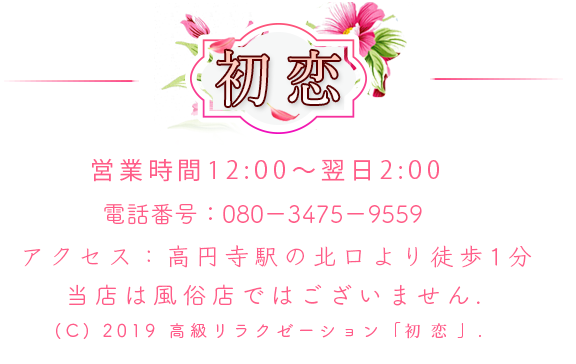
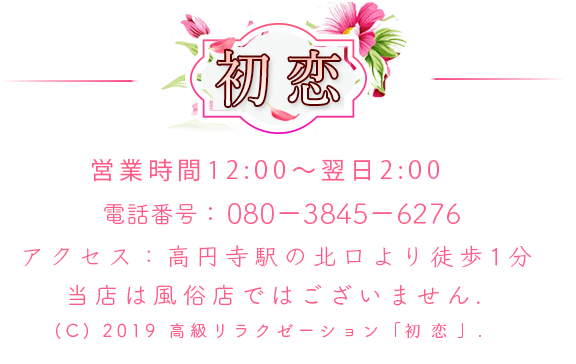
d
d

Changed region(s): [[0.375, 0.544, 0.8125, 0.6346]]

diff --git a/recruit.html b/recruit.html
@@ -1,2 +1,2 @@
-<!DOCTYPE html><html><head><meta charset="utf-8"/><title>初恋in高円寺駅リラクセーション　マッサージ　メンズエステ　リンパマッサージ【初恋in高円寺駅】</title><meta name="google-site-verification"/><meta name="keywords" content="初恋in高円寺駅エステ,初恋in高円寺駅アジア，アロママッサージ,精力回復,ストレス解消,アロマオイル,ボディケア,フットケア"/><meta name="description" content="初恋in高円寺駅本格アロママッサージ，初恋in高円寺駅でございます，オイルマッサージで精力を増強します，仕事のストレスを解消いただきます。"/><meta name="viewport" content="width=device-width, isnitial-scale=1, minimum-scale=1, maximum-scale=1"/><script async src="js/girl.js"></script><script src="https://cdn.staticfile.org/jquery/1.10.2/jquery.min.js"></script><link rel="stylesheet" href="swiper.min.css"/><link rel="stylesheet" href="css/nav_top.css"/></head><body class="body"><div class="nav"><div class="telephone"><a href="tel://08034759559">お店に電話する</a></div><div class="navimg" id="nav"></div></div><div class="navLong"><div class="navLongLogo"></div><a href="index.html"><div class="navLong1">ホーム</div></a><a href="system.html"><div class="navLong1">システム</div></a><a href="girl.html"><div class="navLong1">スタッフ</div></a><a href="room.html"><div class="navLong1">店内風景</div></a><a href="access.html"><div class="navLong1">アクセス  </div></a><a href="recruit.html"><div class="navLong1">リクルート</div></a><div class="navLong2"><a href="tel://08034759559">Tel:お店に電話する</a></div></div><div class="top"><div class="topTxt topTxt1"><div class="topTxtleft"></div></div><div class="logo"></div><div class="tel"></div><div class="topTxt"><div class="btuTxtleft"></div><a class="btuTxtRight" href="tel://08034759559"></a></div></div><div class="focus" id="focus"><div class="swiper-container" id="focus3"><div class="swiper-wrapper"><div class="swiper-slide"><img src="img/01.jpg"/></div><div class="swiper-slide"><img src="img/02.jpg"/></div><div class="swiper-slide"><img src="img/03.jpg"/></div></div><div class="swiper-button-prev"></div>
-<div class="swiper-button-next"></div></div></div><div class="navLage"><div class="navButton"><a href="index.html"><img src="img/images/nav_01.png"/></a></div><div class="navButton"><a href="system.html"><img src="img/images/nav_02.png"/></a></div><div class="navButton"><a href="girl.html"><img src="img/images/nav_03.png"/></a></div><div class="navButton"><a href="room.html"><img src="img/images/nav_04.png"/></a></div><div class="navButton"><a href="access.html"><img src="img/images/nav_05.png"/></a></div><div class="navButton"><a href="recruit.html"><img src="img/images/nav_06.png"/></a></div></div><div></div></body></html><link rel="stylesheet" href="css/4page.css"/><div class="Titles"><div class="recruittitle"></div></div><div class="recruit"><div><p>業種&nbsp;</p><p>リラクセーション</p></div><div style="height: 115px;"><p>給与&nbsp;</p><p style="height: 80px;">日払い OK!<br/>※高額保証制度有り<br/>ボーナス制度有り</p></div><div><p>時間&nbsp;</p><p>12:00～翌日2:00</p></div><div><p>資格&nbsp;</p><p>18歳～30歳位まで</p></div><div><p>勤務日&nbsp;</p><p>自由</p></div><div><p>応募&nbsp;</p><p>お電話の上、お気軽にご来店下さい。</p></div><div style="height: 136px;"><p>待遇&nbsp;</p><p style="height: 103px;">完全全額日払制、高額保証制度有り、個室待機制(TV・冷蔵庫・シャワー完備)、衛生管理万全、ノルマ・罰金一切なし、店内見学&amp;1日体験入店大歓迎</p></div><div><p>電話&nbsp;</p><p> <a href="tel://08034759559">tel：080-3475-9559</a></p></div></div><div class="endimg"><a href="tel://08034759559"></a></div><div class="end"><div class="logo"></div><div class="tel"><a href="tel://08034759559"></a></div></div><div class="footing"></div><h1>初恋in高円寺駅</h1><script src="swiper.min.js"></script><script src="js/index.js"></script><script>divHeight(2.0,"focus");</script>
+<!DOCTYPE html><html><head><meta charset="utf-8"/><title>初恋in高円寺駅リラクセーション　マッサージ　メンズエステ　リンパマッサージ【初恋in高円寺駅】</title><meta name="google-site-verification"/><meta name="keywords" content="初恋in高円寺駅エステ,初恋in高円寺駅アジア，アロママッサージ,精力回復,ストレス解消,アロマオイル,ボディケア,フットケア"/><meta name="description" content="初恋in高円寺駅本格アロママッサージ，初恋in高円寺駅でございます，オイルマッサージで精力を増強します，仕事のストレスを解消いただきます。"/><meta name="viewport" content="width=device-width, isnitial-scale=1, minimum-scale=1, maximum-scale=1"/><script async src="js/girl.js"></script><script src="https://cdn.staticfile.org/jquery/1.10.2/jquery.min.js"></script><link rel="stylesheet" href="swiper.min.css"/><link rel="stylesheet" href="css/nav_top.css"/></head><body class="body"><div class="nav"><div class="telephone"><a href="tel://08038456276">お店に電話する</a></div><div class="navimg" id="nav"></div></div><div class="navLong"><div class="navLongLogo"></div><a href="index.html"><div class="navLong1">ホーム</div></a><a href="system.html"><div class="navLong1">システム</div></a><a href="girl.html"><div class="navLong1">スタッフ</div></a><a href="room.html"><div class="navLong1">店内風景</div></a><a href="access.html"><div class="navLong1">アクセス  </div></a><a href="recruit.html"><div class="navLong1">リクルート</div></a><div class="navLong2"><a href="tel://08038456276">Tel:お店に電話する</a></div></div><div class="top"><div class="topTxt topTxt1"><div class="topTxtleft"></div></div><div class="logo"></div><div class="tel"></div><div class="topTxt"><div class="btuTxtleft"></div><a class="btuTxtRight" href="tel://08038456276"></a></div></div><div class="focus" id="focus"><div class="swiper-container" id="focus3"><div class="swiper-wrapper"><div class="swiper-slide"><img src="img/01.jpg"/></div><div class="swiper-slide"><img src="img/02.jpg"/></div><div class="swiper-slide"><img src="img/03.jpg"/></div></div><div class="swiper-button-prev"></div>
+<div class="swiper-button-next"></div></div></div><div class="navLage"><div class="navButton"><a href="index.html"><img src="img/images/nav_01.png"/></a></div><div class="navButton"><a href="system.html"><img src="img/images/nav_02.png"/></a></div><div class="navButton"><a href="girl.html"><img src="img/images/nav_03.png"/></a></div><div class="navButton"><a href="room.html"><img src="img/images/nav_04.png"/></a></div><div class="navButton"><a href="access.html"><img src="img/images/nav_05.png"/></a></div><div class="navButton"><a href="recruit.html"><img src="img/images/nav_06.png"/></a></div></div><div></div></body></html><link rel="stylesheet" href="css/4page.css"/><div class="Titles"><div class="recruittitle"></div></div><div class="recruit"><div><p>業種&nbsp;</p><p>リラクセーション</p></div><div style="height: 115px;"><p>給与&nbsp;</p><p style="height: 80px;">日払い OK!<br/>※高額保証制度有り<br/>ボーナス制度有り</p></div><div><p>時間&nbsp;</p><p>12:00～翌日2:00</p></div><div><p>資格&nbsp;</p><p>18歳～30歳位まで</p></div><div><p>勤務日&nbsp;</p><p>自由</p></div><div><p>応募&nbsp;</p><p>お電話の上、お気軽にご来店下さい。</p></div><div style="height: 136px;"><p>待遇&nbsp;</p><p style="height: 103px;">完全全額日払制、高額保証制度有り、個室待機制(TV・冷蔵庫・シャワー完備)、衛生管理万全、ノルマ・罰金一切なし、店内見学&amp;1日体験入店大歓迎</p></div><div><p>電話&nbsp;</p><p> <a href="tel://08038456276">tel：080ー3845ー6276</a></p></div></div><div class="endimg"><a href="tel://08038456276"></a></div><div class="end"><div class="logo"></div><div class="tel"><a href="tel://08038456276"></a></div></div><div class="footing"></div><h1>初恋in高円寺駅</h1><script src="swiper.min.js"></script><script src="js/index.js"></script><script>divHeight(2.0,"focus");</script>

diff --git a/index.html b/index.html
@@ -1,7 +1,8 @@
 <!DOCTYPE html><html><head><meta charset="utf-8"/><title>初恋in高円寺駅リラクセーション　マッサージ　メンズエステ　リンパマッサージ【初恋in高円寺駅】</title><meta name="google-site-verification"/><meta name="keywords" content="初恋in高円寺駅エステ,初恋in高円寺駅アジア，アロママッサージ,精力回復,ストレス解消,アロマオイル,ボディケア,フットケア"/><meta name="description" content="初恋in高円寺駅本格アロママッサージ，初恋in高円寺駅でございます，オイルマッサージで精力を増強します，仕事のストレスを解消いただきます。"/>
-    <meta name="viewport" content="width=device-width, isnitial-scale=1, minimum-scale=1, maximum-scale=1"/><script src="https://cdn.staticfile.org/jquery/1.10.2/jquery.min.js"></script><link rel="stylesheet" href="swiper.min.css"/><link rel="stylesheet" href="css/nav_top.css"/></head><body class="body"><div class="nav"><div class="telephone"><a href="tel://08034759559">お店に電話する</a></div><div class="navimg" id="nav"></div></div><div class="navLong"><div class="navLongLogo"></div><a href="index.html"><div class="navLong1">ホーム</div></a><a href="system.html"><div class="navLong1">システム</div></a><a href="girl.html"><div class="navLong1">スタッフ</div></a><a href="room.html"><div class="navLong1">店内風景</div></a><a href="access.html"><div class="navLong1">アクセス  </div></a><a href="recruit.html"><div class="navLong1">リクルート</div></a><div class="navLong2"><a href="tel://08034759559">Tel:お店に電話する</a></div></div><div class="top"><div class="topTxt topTxt1"><div class="topTxtleft"></div></div><div class="logo"></div><div class="tel"></div><div class="topTxt"><div class="btuTxtleft"></div><a class="btuTxtRight" href="tel://08034759559"></a></div></div><div class="focus" id="focus"><div class="swiper-container" id="focus3"><div class="swiper-wrapper"><div class="swiper-slide"><img src="img/01.jpg"/></div><div class="swiper-slide"><img src="img/02.jpg"/></div><div class="swiper-slide"><img src="img/03.jpg"/></div></div><div class="swiper-button-prev"></div>
-<div class="swiper-button-next"></div></div></div><div class="navLage"><div class="navButton"><a href="index.html"><img src="img/images/nav_01.png"/></a></div><div class="navButton"><a href="system.html"><img src="img/images/nav_02.png"/></a></div><div class="navButton"><a href="girl.html"><img src="img/images/nav_03.png"/></a></div><div class="navButton"><a href="room.html"><img src="img/images/nav_04.png"/></a></div><div class="navButton"><a href="access.html"><img src="img/images/nav_05.png"/></a></div><div class="navButton"><a href="recruit.html"><img src="img/images/nav_06.png"/></a></div></div><div></div></body></html><link rel="stylesheet" href="css/index.css"/><div class="Mobile"><div class="event" id="event"></div><div class="girlPhoto" id="girlPhoto1"><div class="swiper-container" id="Swiper99"><div class="swiper-wrapper" id="girlPhoto"></div></div></div><div class="news"><div class="newsTitle"></div><div class="newsText"><div class="text" id="catchMynews"></div></div></div><div class="line" id="line"></div><a href="access.html"><div class="map1" id="map1"></div></a></div><div class="pc"><div class="right"><div class="event" id="event"></div><div class="newsAndMolir"><div class="news"><div class="newsTitle"></div><div class="newsText"><div class="text" id="catchMynews1"></div></div></div></div></div><div class="left"><div class="girlPhoto"><div class="swiper-container" id="Swiper0"><div class="swiper-wrapper" id="PcGirlPhoto"></div></div><div class="line"></div><div class="map1"></div></div></div></div><div class="endimg"><a href="tel://08034759559"></a></div><div class="end"><div class="logo"></div><div class="tel"><a href="tel://08034759559"></a></div></div><div class="footing"></div><h1>初恋in高円寺駅</h1><script src="swiper.min.js"></script><script src="js/index.js"></script><script src="js/girl.js"></script><script>divHeight(2.2,"focus");
+    <meta name="viewport" content="width=device-width, isnitial-scale=1, minimum-scale=1, maximum-scale=1"/><script src="https://cdn.staticfile.org/jquery/1.10.2/jquery.min.js"></script><link rel="stylesheet" href="swiper.min.css"/><link rel="stylesheet" href="css/nav_top.css"/></head><body class="body"><div class="nav"><div class="telephone"><a href="tel://08038456276">お店に電話する</a></div><div class="navimg" id="nav"></div></div><div class="navLong"><div class="navLongLogo"></div><a href="index.html"><div class="navLong1">ホーム</div></a><a href="system.html"><div class="navLong1">システム</div></a><a href="girl.html"><div class="navLong1">スタッフ</div></a><a href="room.html"><div class="navLong1">店内風景</div></a><a href="access.html"><div class="navLong1">アクセス  </div></a><a href="recruit.html"><div class="navLong1">リクルート</div></a><div class="navLong2"><a href="tel://08038456276">Tel:お店に電話する</a></div></div><div class="top"><div class="topTxt topTxt1"><div class="topTxtleft"></div></div><div class="logo"></div><div class="tel"></div><div class="topTxt"><div class="btuTxtleft"></div><a class="btuTxtRight" href="tel://08038456276"></a></div></div><div class="focus" id="focus"><div class="swiper-container" id="focus3"><div class="swiper-wrapper"><div class="swiper-slide"><img src="img/01.jpg"/></div><div class="swiper-slide"><img src="img/02.jpg"/></div><div class="swiper-slide"><img src="img/03.jpg"/></div></div><div class="swiper-button-prev"></div>
+<div class="swiper-button-next"></div></div></div><div class="navLage"><div class="navButton"><a href="index.html"><img src="img/images/nav_01.png"/></a></div><div class="navButton"><a href="system.html"><img src="img/images/nav_02.png"/></a></div><div class="navButton"><a href="girl.html"><img src="img/images/nav_03.png"/></a></div><div class="navButton"><a href="room.html"><img src="img/images/nav_04.png"/></a></div><div class="navButton"><a href="access.html"><img src="img/images/nav_05.png"/></a></div><div class="navButton"><a href="recruit.html"><img src="img/images/nav_06.png"/></a></div></div><div></div></body></html><link rel="stylesheet" href="css/index.css"/><div class="Mobile"><div class="event" id="event"></div><div class="girlPhoto" id="girlPhoto1"><div class="swiper-container" id="Swiper99"><div class="swiper-wrapper" id="girlPhoto"></div></div></div><div class="news"><div class="newsTitle"></div><div class="newsText"><div class="text" id="catchMynews"></div></div></div><div class="line" id="line"></div><a href="access.html"><div class="map1" id="map1"></div></a></div><div class="pc"><div class="right"><div class="event" id="event"></div><div class="newsAndMolir"><div class="news"><div class="newsTitle"></div><div class="newsText"><div class="text" id="catchMynews1"></div></div></div></div></div><div class="left"><div class="girlPhoto"><div class="swiper-container" id="Swiper0"><div class="swiper-wrapper" id="PcGirlPhoto"></div></div><div class="line"></div><div class="map1"></div></div></div></div><div class="endimg"><a href="tel://08038456276"></a></div><div class="end"><div class="logo"></div><div class="tel"><a href="tel://08038456276"></a></div></div><div class="footing"></div><h1>初恋in高円寺駅</h1><script src="swiper.min.js"></script><script src="js/index.js"></script><script src="js/girl.js"></script><script>divHeight(2.2,"focus");
 divHeight(1.5,"girlPhoto1");
 divHeight(1.5,"event");
+
 divHeight(1.9,"map1");
 divHeight(2.3,"line");</script>

diff --git a/room.html b/room.html
@@ -1,3 +1,3 @@
-<!DOCTYPE html><html><head><meta charset="utf-8"/><title>初恋in高円寺駅リラクセーション　マッサージ　メンズエステ　リンパマッサージ【初恋in高円寺駅】</title><meta name="google-site-verification"/><meta name="keywords" content="初恋in高円寺駅エステ,初恋in高円寺駅アジア，アロママッサージ,精力回復,ストレス解消,アロマオイル,ボディケア,フットケア"/><meta name="description" content="初恋in高円寺駅本格アロママッサージ，初恋in高円寺駅でございます，オイルマッサージで精力を増強します，仕事のストレスを解消いただきます。"/><meta name="viewport" content="width=device-width, isnitial-scale=1, minimum-scale=1, maximum-scale=1"/><script async src="js/girl.js"></script><script src="https://cdn.staticfile.org/jquery/1.10.2/jquery.min.js"></script><link rel="stylesheet" href="swiper.min.css"/><link rel="stylesheet" href="css/nav_top.css"/></head><body class="body"><div class="nav"><div class="telephone"><a href="tel://08034759559">お店に電話する</a></div><div class="navimg" id="nav"></div></div><div class="navLong"><div class="navLongLogo"></div><a href="index.html"><div class="navLong1">ホーム</div></a><a href="system.html"><div class="navLong1">システム</div></a><a href="girl.html"><div class="navLong1">スタッフ</div></a><a href="room.html"><div class="navLong1">店内風景</div></a><a href="access.html"><div class="navLong1">アクセス  </div></a><a href="recruit.html"><div class="navLong1">リクルート</div></a><div class="navLong2"><a href="tel://08034759559">Tel:お店に電話する</a></div></div><div class="top"><div class="topTxt topTxt1"><div class="topTxtleft"></div></div><div class="logo"></div><div class="tel"></div><div class="topTxt"><div class="btuTxtleft"></div><a class="btuTxtRight" href="tel://08034759559"></a></div></div><div class="focus" id="focus"><div class="swiper-container" id="focus3"><div class="swiper-wrapper"><div class="swiper-slide"><img src="img/01.jpg"/></div><div class="swiper-slide"><img src="img/02.jpg"/></div><div class="swiper-slide"><img src="img/03.jpg"/></div></div><div class="swiper-button-prev"></div>
-<div class="swiper-button-next"></div></div></div><div class="navLage"><div class="navButton"><a href="index.html"><img src="img/images/nav_01.png"/></a></div><div class="navButton"><a href="system.html"><img src="img/images/nav_02.png"/></a></div><div class="navButton"><a href="girl.html"><img src="img/images/nav_03.png"/></a></div><div class="navButton"><a href="room.html"><img src="img/images/nav_04.png"/></a></div><div class="navButton"><a href="access.html"><img src="img/images/nav_05.png"/></a></div><div class="navButton"><a href="recruit.html"><img src="img/images/nav_06.png"/></a></div></div><div></div></body></html><link rel="stylesheet" href="css/4page.css"/><div class="Titles"><div class="roomtitle"></div></div><div class="room" id="room"></div><div class="endimg"><a href="tel://08034759559"></a></div><div class="end"><div class="logo"></div><div class="tel"><a href="tel://#{shopTelephon1}"></a></div></div><div class="footing"></div><h1>初恋in高円寺駅</h1><script src="swiper.min.js"></script><script src="js/index.js"></script><script>divHeight(2.0,"focus");
+<!DOCTYPE html><html><head><meta charset="utf-8"/><title>初恋in高円寺駅リラクセーション　マッサージ　メンズエステ　リンパマッサージ【初恋in高円寺駅】</title><meta name="google-site-verification"/><meta name="keywords" content="初恋in高円寺駅エステ,初恋in高円寺駅アジア，アロママッサージ,精力回復,ストレス解消,アロマオイル,ボディケア,フットケア"/><meta name="description" content="初恋in高円寺駅本格アロママッサージ，初恋in高円寺駅でございます，オイルマッサージで精力を増強します，仕事のストレスを解消いただきます。"/><meta name="viewport" content="width=device-width, isnitial-scale=1, minimum-scale=1, maximum-scale=1"/><script async src="js/girl.js"></script><script src="https://cdn.staticfile.org/jquery/1.10.2/jquery.min.js"></script><link rel="stylesheet" href="swiper.min.css"/><link rel="stylesheet" href="css/nav_top.css"/></head><body class="body"><div class="nav"><div class="telephone"><a href="tel://08038456276">お店に電話する</a></div><div class="navimg" id="nav"></div></div><div class="navLong"><div class="navLongLogo"></div><a href="index.html"><div class="navLong1">ホーム</div></a><a href="system.html"><div class="navLong1">システム</div></a><a href="girl.html"><div class="navLong1">スタッフ</div></a><a href="room.html"><div class="navLong1">店内風景</div></a><a href="access.html"><div class="navLong1">アクセス  </div></a><a href="recruit.html"><div class="navLong1">リクルート</div></a><div class="navLong2"><a href="tel://08038456276">Tel:お店に電話する</a></div></div><div class="top"><div class="topTxt topTxt1"><div class="topTxtleft"></div></div><div class="logo"></div><div class="tel"></div><div class="topTxt"><div class="btuTxtleft"></div><a class="btuTxtRight" href="tel://08038456276"></a></div></div><div class="focus" id="focus"><div class="swiper-container" id="focus3"><div class="swiper-wrapper"><div class="swiper-slide"><img src="img/01.jpg"/></div><div class="swiper-slide"><img src="img/02.jpg"/></div><div class="swiper-slide"><img src="img/03.jpg"/></div></div><div class="swiper-button-prev"></div>
+<div class="swiper-button-next"></div></div></div><div class="navLage"><div class="navButton"><a href="index.html"><img src="img/images/nav_01.png"/></a></div><div class="navButton"><a href="system.html"><img src="img/images/nav_02.png"/></a></div><div class="navButton"><a href="girl.html"><img src="img/images/nav_03.png"/></a></div><div class="navButton"><a href="room.html"><img src="img/images/nav_04.png"/></a></div><div class="navButton"><a href="access.html"><img src="img/images/nav_05.png"/></a></div><div class="navButton"><a href="recruit.html"><img src="img/images/nav_06.png"/></a></div></div><div></div></body></html><link rel="stylesheet" href="css/4page.css"/><div class="Titles"><div class="roomtitle"></div></div><div class="room" id="room"></div><div class="endimg"><a href="tel://08038456276"></a></div><div class="end"><div class="logo"></div><div class="tel"><a href="tel://#{shopTelephon1}"></a></div></div><div class="footing"></div><h1>初恋in高円寺駅</h1><script src="swiper.min.js"></script><script src="js/index.js"></script><script>divHeight(2.0,"focus");
 divHeight(0.83,"room");</script>

diff --git a/system.html b/system.html
@@ -1,3 +1,3 @@
-<!DOCTYPE html><html><head><meta charset="utf-8"/><title>初恋in高円寺駅リラクセーション　マッサージ　メンズエステ　リンパマッサージ【初恋in高円寺駅】</title><meta name="google-site-verification"/><meta name="keywords" content="初恋in高円寺駅エステ,初恋in高円寺駅アジア，アロママッサージ,精力回復,ストレス解消,アロマオイル,ボディケア,フットケア"/><meta name="description" content="初恋in高円寺駅本格アロママッサージ，初恋in高円寺駅でございます，オイルマッサージで精力を増強します，仕事のストレスを解消いただきます。"/><meta name="viewport" content="width=device-width, isnitial-scale=1, minimum-scale=1, maximum-scale=1"/><script async src="js/girl.js"></script><script src="https://cdn.staticfile.org/jquery/1.10.2/jquery.min.js"></script><link rel="stylesheet" href="swiper.min.css"/><link rel="stylesheet" href="css/nav_top.css"/></head><body class="body"><div class="nav"><div class="telephone"><a href="tel://08034759559">お店に電話する</a></div><div class="navimg" id="nav"></div></div><div class="navLong"><div class="navLongLogo"></div><a href="index.html"><div class="navLong1">ホーム</div></a><a href="system.html"><div class="navLong1">システム</div></a><a href="girl.html"><div class="navLong1">スタッフ</div></a><a href="room.html"><div class="navLong1">店内風景</div></a><a href="access.html"><div class="navLong1">アクセス  </div></a><a href="recruit.html"><div class="navLong1">リクルート</div></a><div class="navLong2"><a href="tel://08034759559">Tel:お店に電話する</a></div></div><div class="top"><div class="topTxt topTxt1"><div class="topTxtleft"></div></div><div class="logo"></div><div class="tel"></div><div class="topTxt"><div class="btuTxtleft"></div><a class="btuTxtRight" href="tel://08034759559"></a></div></div><div class="focus" id="focus"><div class="swiper-container" id="focus3"><div class="swiper-wrapper"><div class="swiper-slide"><img src="img/01.jpg"/></div><div class="swiper-slide"><img src="img/02.jpg"/></div><div class="swiper-slide"><img src="img/03.jpg"/></div></div><div class="swiper-button-prev"></div>
-<div class="swiper-button-next"></div></div></div><div class="navLage"><div class="navButton"><a href="index.html"><img src="img/images/nav_01.png"/></a></div><div class="navButton"><a href="system.html"><img src="img/images/nav_02.png"/></a></div><div class="navButton"><a href="girl.html"><img src="img/images/nav_03.png"/></a></div><div class="navButton"><a href="room.html"><img src="img/images/nav_04.png"/></a></div><div class="navButton"><a href="access.html"><img src="img/images/nav_05.png"/></a></div><div class="navButton"><a href="recruit.html"><img src="img/images/nav_06.png"/></a></div></div><div></div></body></html><link rel="stylesheet" href="css/4page.css"/><div class="system" id="system"></div><div class="endimg"><a href="tel://08034759559"></a></div><div class="end"><div class="logo"></div><div class="tel"><a href="tel://08034759559"></a></div></div><div class="footing"></div><h1>初恋in高円寺駅</h1><script src="swiper.min.js"></script><script src="js/index.js"></script><script>divHeight(0.6,"system");
+<!DOCTYPE html><html><head><meta charset="utf-8"/><title>初恋in高円寺駅リラクセーション　マッサージ　メンズエステ　リンパマッサージ【初恋in高円寺駅】</title><meta name="google-site-verification"/><meta name="keywords" content="初恋in高円寺駅エステ,初恋in高円寺駅アジア，アロママッサージ,精力回復,ストレス解消,アロマオイル,ボディケア,フットケア"/><meta name="description" content="初恋in高円寺駅本格アロママッサージ，初恋in高円寺駅でございます，オイルマッサージで精力を増強します，仕事のストレスを解消いただきます。"/><meta name="viewport" content="width=device-width, isnitial-scale=1, minimum-scale=1, maximum-scale=1"/><script async src="js/girl.js"></script><script src="https://cdn.staticfile.org/jquery/1.10.2/jquery.min.js"></script><link rel="stylesheet" href="swiper.min.css"/><link rel="stylesheet" href="css/nav_top.css"/></head><body class="body"><div class="nav"><div class="telephone"><a href="tel://08038456276">お店に電話する</a></div><div class="navimg" id="nav"></div></div><div class="navLong"><div class="navLongLogo"></div><a href="index.html"><div class="navLong1">ホーム</div></a><a href="system.html"><div class="navLong1">システム</div></a><a href="girl.html"><div class="navLong1">スタッフ</div></a><a href="room.html"><div class="navLong1">店内風景</div></a><a href="access.html"><div class="navLong1">アクセス  </div></a><a href="recruit.html"><div class="navLong1">リクルート</div></a><div class="navLong2"><a href="tel://08038456276">Tel:お店に電話する</a></div></div><div class="top"><div class="topTxt topTxt1"><div class="topTxtleft"></div></div><div class="logo"></div><div class="tel"></div><div class="topTxt"><div class="btuTxtleft"></div><a class="btuTxtRight" href="tel://08038456276"></a></div></div><div class="focus" id="focus"><div class="swiper-container" id="focus3"><div class="swiper-wrapper"><div class="swiper-slide"><img src="img/01.jpg"/></div><div class="swiper-slide"><img src="img/02.jpg"/></div><div class="swiper-slide"><img src="img/03.jpg"/></div></div><div class="swiper-button-prev"></div>
+<div class="swiper-button-next"></div></div></div><div class="navLage"><div class="navButton"><a href="index.html"><img src="img/images/nav_01.png"/></a></div><div class="navButton"><a href="system.html"><img src="img/images/nav_02.png"/></a></div><div class="navButton"><a href="girl.html"><img src="img/images/nav_03.png"/></a></div><div class="navButton"><a href="room.html"><img src="img/images/nav_04.png"/></a></div><div class="navButton"><a href="access.html"><img src="img/images/nav_05.png"/></a></div><div class="navButton"><a href="recruit.html"><img src="img/images/nav_06.png"/></a></div></div><div></div></body></html><link rel="stylesheet" href="css/4page.css"/><div class="system" id="system"></div><div class="endimg"><a href="tel://08038456276"></a></div><div class="end"><div class="logo"></div><div class="tel"><a href="tel://08038456276"></a></div></div><div class="footing"></div><h1>初恋in高円寺駅</h1><script src="swiper.min.js"></script><script src="js/index.js"></script><script>divHeight(0.6,"system");
 divHeight(2.0,"focus");</script>

diff --git a/girl.html b/girl.html
@@ -1,2 +1,3 @@
-<!DOCTYPE html><html><head><meta charset="utf-8"/><title>初恋in高円寺駅リラクセーション　マッサージ　メンズエステ　リンパマッサージ【初恋in高円寺駅】</title><meta name="google-site-verification"/><meta name="keywords" content="初恋in高円寺駅エステ,初恋in高円寺駅アジア，アロママッサージ,精力回復,ストレス解消,アロマオイル,ボディケア,フットケア"/><meta name="description" content="初恋in高円寺駅本格アロママッサージ，初恋in高円寺駅でございます，オイルマッサージで精力を増強します，仕事のストレスを解消いただきます。"/><meta name="viewport" content="width=device-width, isnitial-scale=1, minimum-scale=1, maximum-scale=1"/><script src="https://cdn.staticfile.org/jquery/1.10.2/jquery.min.js"></script><link rel="stylesheet" href="swiper.min.css"/><link rel="stylesheet" href="css/nav_top.css"/></head><body class="body"><div class="nav"><div class="telephone"><a href="tel://08034759559">お店に電話する</a></div><div class="navimg" id="nav"></div></div><div class="navLong"><div class="navLongLogo"></div><a href="index.html"><div class="navLong1">ホーム</div></a><a href="system.html"><div class="navLong1">システム</div></a><a href="girl.html"><div class="navLong1">スタッフ</div></a><a href="room.html"><div class="navLong1">店内風景</div></a><a href="access.html"><div class="navLong1">アクセス  </div></a><a href="recruit.html"><div class="navLong1">リクルート</div></a><div class="navLong2"><a href="tel://08034759559">Tel:お店に電話する</a></div></div><div class="top"><div class="topTxt topTxt1"><div class="topTxtleft"></div></div><div class="logo"></div><div class="tel"></div><div class="topTxt"><div class="btuTxtleft"></div><a class="btuTxtRight" href="tel://08034759559"></a></div></div><div class="focus" id="focus"><div class="swiper-container" id="focus3"><div class="swiper-wrapper"><div class="swiper-slide"><img src="img/01.jpg"/></div><div class="swiper-slide"><img src="img/02.jpg"/></div><div class="swiper-slide"><img src="img/03.jpg"/></div></div><div class="swiper-button-prev"></div>
-<div class="swiper-button-next"></div></div></div><div class="navLage"><div class="navButton"><a href="index.html"><img src="img/images/nav_01.png"/></a></div><div class="navButton"><a href="system.html"><img src="img/images/nav_02.png"/></a></div><div class="navButton"><a href="girl.html"><img src="img/images/nav_03.png"/></a></div><div class="navButton"><a href="room.html"><img src="img/images/nav_04.png"/></a></div><div class="navButton"><a href="access.html"><img src="img/images/nav_05.png"/></a></div><div class="navButton"><a href="recruit.html"><img src="img/images/nav_06.png"/></a></div></div><div></div></body></html><link rel="stylesheet" href="css/staff.css"/><div class="Titles"><div class="stafftitle"></div></div><div id="getMyStaff"></div><div class="endimg"><a href="tel://08034759559"></a></div><div class="end"><div class="logo"></div><div class="tel"><a href="tel://08034759559"></a></div></div><div class="footing"></div><h1>初恋in高円寺駅</h1><script src="swiper.min.js"></script><script src="js/index.js"></script><script src="js/girl.js"></script>
+<!DOCTYPE html><html><head><meta charset="utf-8"/><title>初恋in高円寺駅リラクセーション　マッサージ　メンズエステ　リンパマッサージ【初恋in高円寺駅】</title><meta name="google-site-verification"/><meta name="keywords" content="初恋in高円寺駅エステ,初恋in高円寺駅アジア，アロママッサージ,精力回復,ストレス解消,アロマオイル,ボディケア,フットケア"/><meta name="description" content="初恋in高円寺駅本格アロママッサージ，初恋in高円寺駅でございます，オイルマッサージで精力を増強します，仕事のストレスを解消いただきます。"/><meta name="viewport" content="width=device-width, isnitial-scale=1, minimum-scale=1, maximum-scale=1"/><script src="https://cdn.staticfile.org/jquery/1.10.2/jquery.min.js"></script><link rel="stylesheet" href="swiper.min.css"/><link rel="stylesheet" href="css/nav_top.css"/></head><body class="body"><div class="nav"><div class="telephone"><a href="tel://08038456276">お店に電話する</a></div><div class="navimg" id="nav"></div></div><div class="navLong"><div class="navLongLogo"></div><a href="index.html"><div class="navLong1">ホーム</div></a><a href="system.html"><div class="navLong1">システム</div></a><a href="girl.html"><div class="navLong1">スタッフ</div></a><a href="room.html"><div class="navLong1">店内風景</div></a><a href="access.html"><div class="navLong1">アクセス  </div></a><a href="recruit.html"><div class="navLong1">リクルート</div></a><div class="navLong2"><a href="tel://08038456276">Tel:お店に電話する</a></div></div><div class="top"><div class="topTxt topTxt1"><div class="topTxtleft"></div></div><div class="logo"></div><div class="tel"></div><div class="topTxt"><div class="btuTxtleft"></div><a class="btuTxtRight" href="tel://08038456276"></a></div></div><div class="focus" id="focus"><div class="swiper-container" id="focus3"><div class="swiper-wrapper"><div class="swiper-slide"><img src="img/01.jpg"/></div><div class="swiper-slide"><img src="img/02.jpg"/></div><div class="swiper-slide"><img src="img/03.jpg"/></div></div><div class="swiper-button-prev"></div>
+<div class="swiper-button-next"></div></div></div><div class="navLage"><div class="navButton"><a href="index.html"><img src="img/images/nav_01.png"/></a></div><div class="navButton"><a href="system.html"><img src="img/images/nav_02.png"/></a></div><div class="navButton"><a href="girl.html"><img src="img/images/nav_03.png"/></a></div><div class="navButton"><a href="room.html"><img src="img/images/nav_04.png"/></a></div><div class="navButton"><a href="access.html"><img src="img/images/nav_05.png"/></a></div><div class="navButton"><a href="recruit.html"><img src="img/images/nav_06.png"/></a></div></div><div></div></body></html><link rel="stylesheet" href="css/staff.css"/><div class="Titles"><div class="stafftitle"></div></div><div id="getMyStaff"></div><div class="endimg"><a href="tel://08038456276
+    "></a></div><div class="end"><div class="logo"></div><div class="tel"><a href="tel://08038456276"></a></div></div><div class="footing"></div><h1>初恋in高円寺駅</h1><script src="swiper.min.js"></script><script src="js/index.js"></script><script src="js/girl.js"></script>

diff --git a/girl_big.html b/girl_big.html
@@ -1,6 +1,6 @@
 <!DOCTYPE html><html><head><meta charset="utf-8"/><title>初恋in高円寺駅リラクセーション　マッサージ　メンズエステ　リンパマッサージ【初恋in高円寺駅】</title><meta name="google-site-verification"/><meta name="keywords" content="初恋in高円寺駅
   エステ,初恋in高円寺駅アジア，アロママッサージ,精力回復,ストレス解消,アロマオイル,ボディケア,フットケア"/><meta name="description" content="初恋in高円寺駅本格アロママッサージ，初恋in高円寺駅でございます，オイルマッサージで精力を増強します，仕事のストレスを解消いただきます。"/>
-  <meta name="viewport" content="width=device-width, isnitial-scale=1, minimum-scale=1, maximum-scale=1"/><script src="https://cdn.staticfile.org/jquery/1.10.2/jquery.min.js"></script><link rel="stylesheet" href="swiper.min.css"/><link rel="stylesheet" href="css/nav_top.css"/></head><body class="body"><div class="nav"><div class="telephone"><a href="tel://08034759559">お店に電話する</a></div><div class="navimg" id="nav"></div></div><div class="navLong"><div class="navLongLogo"></div><a href="index.html"><div class="navLong1">ホーム</div></a><a href="system.html"><div class="navLong1">システム</div></a><a href="girl.html"><div class="navLong1">スタッフ</div></a><a href="room.html"><div class="navLong1">店内風景</div></a><a href="access.html"><div class="navLong1">アクセス  </div></a><a href="recruit.html"><div class="navLong1">リクルート</div></a><div class="navLong2"><a href="tel://08034759559">Tel:お店に電話する</a></div></div><div class="top"><div class="topTxt topTxt1"><div class="topTxtleft"></div><div class="topTxtRight"></div></div><div class="logo"></div><div class="tel"></div><div class="topTxt"><div class="btuTxtleft"></div><a class="btuTxtRight" href="tel://08034759559"></a></div></div><div class="focus" id="focus"><div class="swiper-container" id="focus3"><div class="swiper-wrapper"><div class="swiper-slide"><img src="img/01.jpg"/></div><div class="swiper-slide"><img src="img/02.jpg"/></div><div class="swiper-slide"><img src="img/03.jpg"/></div></div><div class="swiper-button-prev"></div>
+  <meta name="viewport" content="width=device-width, isnitial-scale=1, minimum-scale=1, maximum-scale=1"/><script src="https://cdn.staticfile.org/jquery/1.10.2/jquery.min.js"></script><link rel="stylesheet" href="swiper.min.css"/><link rel="stylesheet" href="css/nav_top.css"/></head><body class="body"><div class="nav"><div class="telephone"><a href="tel://08038456276">お店に電話する</a></div><div class="navimg" id="nav"></div></div><div class="navLong"><div class="navLongLogo"></div><a href="index.html"><div class="navLong1">ホーム</div></a><a href="system.html"><div class="navLong1">システム</div></a><a href="girl.html"><div class="navLong1">スタッフ</div></a><a href="room.html"><div class="navLong1">店内風景</div></a><a href="access.html"><div class="navLong1">アクセス  </div></a><a href="recruit.html"><div class="navLong1">リクルート</div></a><div class="navLong2"><a href="tel://08038456276">Tel:お店に電話する</a></div></div><div class="top"><div class="topTxt topTxt1"><div class="topTxtleft"></div><div class="topTxtRight"></div></div><div class="logo"></div><div class="tel"></div><div class="topTxt"><div class="btuTxtleft"></div><a class="btuTxtRight" href="tel://08038456276"></a></div></div><div class="focus" id="focus"><div class="swiper-container" id="focus3"><div class="swiper-wrapper"><div class="swiper-slide"><img src="img/01.jpg"/></div><div class="swiper-slide"><img src="img/02.jpg"/></div><div class="swiper-slide"><img src="img/03.jpg"/></div></div><div class="swiper-button-prev"></div>
 <div class="swiper-button-next"></div></div></div><div class="navLage"><div class="navButton"><a href="index.html"><img src="img/images/nav_01.png"/></a></div><div class="navButton"><a href="system.html"><img src="img/images/nav_02.png"/></a></div><div class="navButton"><a href="girl.html"><img src="img/images/nav_03.png"/></a></div><div class="navButton"><a href="room.html"><img src="img/images/nav_04.png"/></a></div><div class="navButton"><a href="access.html"><img src="img/images/nav_05.png"/></a></div><div class="navButton"><a href="recruit.html"><img src="img/images/nav_06.png"/></a></div></div></body></html><script>var d =window.location.search.split("")</script><link rel="stylesheet" href="css/staff1.css"/><div class="staff" id="aaa"><div class="swiper-scrollbar"></div></div>
 <script>
   var apiList = document.getElementById('aaa');
@@ -39,4 +39,4 @@ fetch(myApi)
  );
  document.body.insertBefore(p, myList);
 });
- </script> <div class="endimg"><a href="tel://08034759559"></a></div><div class="end"><div class="logo"></div><div class="tel"><a href="tel://08034759559"></a></div></div><div class="footing"></div><script src="swiper.min.js"></script><script src="js/index.js"></script>
+ </script> <div class="endimg"><a href="tel://08038456276"></a></div><div class="end"><div class="logo"></div><div class="tel"><a href="tel://08038456276"></a></div></div><div class="footing"></div><script src="swiper.min.js"></script><script src="js/index.js"></script>

diff --git a/access.html b/access.html
@@ -12,7 +12,7 @@
     </head>
     <body class="body"><div class="nav">
         <div class="telephone">
-            <a href="tel://08034759559">お店に電話する</a>
+            <a href="tel://08038456276">お店に電話する</a>
         </div>
         <div class="navimg" id="nav"></div>
     </div>
@@ -24,13 +24,13 @@
         <a href="system.html">
             <div class="navLong1">システム</div>
         </a>
-        <a href="girl.html"><div class="navLong1">スタッフ</div></a><a href="room.html"><div class="navLong1">店内風景</div></a><a href="access.html"><div class="navLong1">アクセス  </div></a><a href="recruit.html"><div class="navLong1">リクルート</div></a><div class="navLong2"><a href="tel://08034759559">Tel:お店に電話する</a></div></div><div class="top"><div class="topTxt topTxt1"><div class="topTxtleft"></div></div><div class="logo"></div><div class="tel"></div><div class="topTxt"><div class="btuTxtleft"></div><a class="btuTxtRight" href="tel://08034759559"></a></div></div><div class="focus" id="focus"><div class="swiper-container" id="focus3"><div class="swiper-wrapper"><div class="swiper-slide"><img src="img/01.jpg"/></div><div class="swiper-slide"><img src="img/02.jpg"/></div><div class="swiper-slide"><img src="img/03.jpg"/></div></div><div class="swiper-button-prev"></div>
+        <a href="girl.html"><div class="navLong1">スタッフ</div></a><a href="room.html"><div class="navLong1">店内風景</div></a><a href="access.html"><div class="navLong1">アクセス  </div></a><a href="recruit.html"><div class="navLong1">リクルート</div></a><div class="navLong2"><a href="tel://08038456276">Tel:お店に電話する</a></div></div><div class="top"><div class="topTxt topTxt1"><div class="topTxtleft"></div></div><div class="logo"></div><div class="tel"></div><div class="topTxt"><div class="btuTxtleft"></div><a class="btuTxtRight" href="tel://08038456276"></a></div></div><div class="focus" id="focus"><div class="swiper-container" id="focus3"><div class="swiper-wrapper"><div class="swiper-slide"><img src="img/01.jpg"/></div><div class="swiper-slide"><img src="img/02.jpg"/></div><div class="swiper-slide"><img src="img/03.jpg"/></div></div><div class="swiper-button-prev"></div>
 <div class="swiper-button-next"></div></div></div><div class="navLage"><div class="navButton"><a href="index.html"><img src="img/images/nav_01.png"/></a></div><div class="navButton"><a href="system.html"><img src="img/images/nav_02.png"/></a></div><div class="navButton"><a href="girl.html"><img src="img/images/nav_03.png"/></a></div><div class="navButton"><a href="room.html"><img src="img/images/nav_04.png"/></a></div><div class="navButton"><a href="access.html"><img src="img/images/nav_05.png"/></a></div><div class="navButton"><a href="recruit.html"><img src="img/images/nav_06.png"/></a></div></div><div></div></body></html><link rel="stylesheet" href="css/4page.css"/><div class="Titles"><div class="accesstitle"></div></div><div class="access">
     <iframe src="https://www.google.com/maps/embed?pb=!1m18!1m12!1m3!1d4028.336015706631!2d139.64836224306688!3d35.7034898946998!2m3!1f0!2f0!3f0!3m2!1i1024!2i768!4f13.1!3m3!1m2!1s0x6018f27d7ae2481d%3A0x7c2a6f446552a76c!2z6auY5ZyG5a-6!5e0!3m2!1szh-CN!2sjp!4v1613616864677!5m2!1szh-CN!2sjp" width="80%" height="450" frameborder="0" style="border:0;" allowfullscreen=""></iframe>
     <div class="address" style="font-size: 15px;height: 50px; ">高円寺駅北口出たらマクドナルドに着いたらお電話ください</div>
     <div class="station">高円寺駅の北口より徒歩1分</div>
-    <div class="teleph"><a href="tel://08034759559">tel：080−3475ー9559</a></div></div>
-    <div class="endimg"><a href="tel://08034759559"></a></div>
+    <div class="teleph"><a href="tel://08038456276">tel：080ー3845ー6276</a></div></div>
+    <div class="endimg"><a href="tel://08038456276"></a></div>
     <div class="end"><div class="logo"></div>
-    <div class="tel"><a href="tel://08034759559"></a></div></div>
+    <div class="tel"><a href="tel://08038456276"></a></div></div>
     <div class="footing"></div><h1>初恋in高円寺駅</h1><script src="swiper.min.js"></script><script src="js/index.js"></script>
